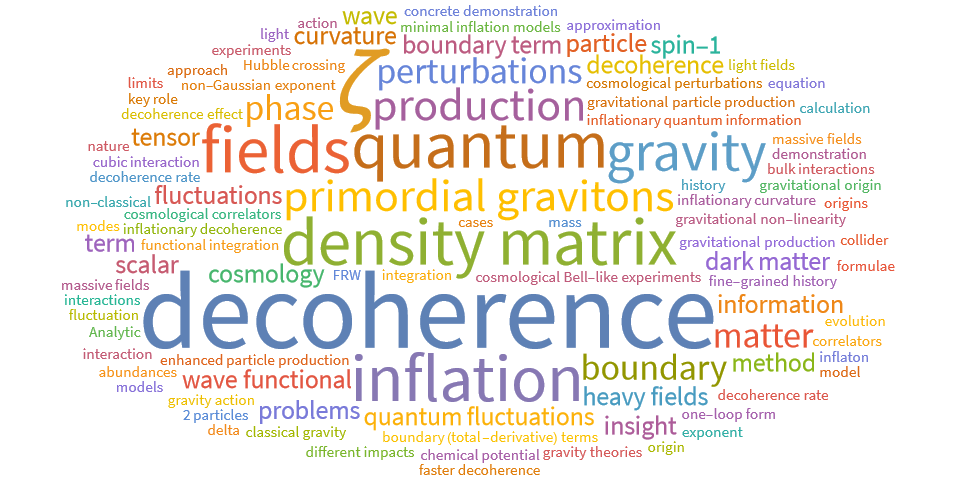
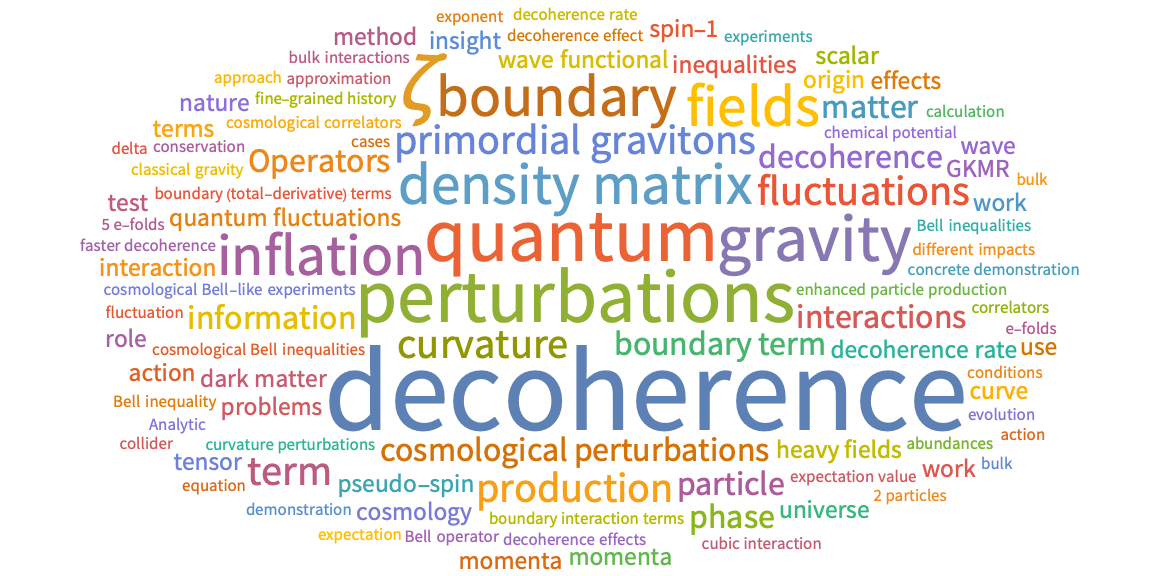
update research

diff --git a/_pages/research.md b/_pages/research.md
@@ -12,7 +12,7 @@ I work on the intersection between theoretical high energy physics, cosmology an
 
 <center>
     <img src="/images/wordcloud_research.png" width="500">
-    <figcaption> Wordcloud generated with the noun phrases in the abstracts of my papers, updated on 07 July 2023 </figcaption>
+    <figcaption> Wordcloud generated with the noun phrases in the abstracts of my papers, updated in Oct 2024 </figcaption>
 </center>
 
 <br>
@@ -29,7 +29,7 @@ Quantum nature and decoherence of cosmological perturbations
 </div>
 
 **Selected papers:**
-* C. M. Sou, J. Wang, and Y. Wang, "Cosmological Bell Tests with Decoherence Effects," [arXiv:2405.07141](https://arxiv.org/abs/2405.07141).
+* C. M. Sou, J. Wang, and Y. Wang, "Cosmological Bell tests with decoherence effects," [JCAP 10 (2024) 084](https://doi.org/10.1088/1475-7516/2024/10/084), [arXiv:2405.07141](https://arxiv.org/abs/2405.07141).
 * S. Ning, C. M. Sou, and Y. Wang, “On the decoherence of primordial gravitons,” [JHEP 06 (2023) 101](https://doi.org/10.1007/JHEP06(2023)101), [arXiv:2305.08071](https://arxiv.org/abs/2305.08071).
 * C. M. Sou, D. H. Tran, and Y. Wang, “Decoherence of cosmological perturbations
 from boundary terms and the non-classicality of gravity,” [JHEP 04 (2023) 092](https://doi.org/10.1007/JHEP04(2023)092), [arXiv:2207.04435](https://arxiv.org/abs/2207.04435).
